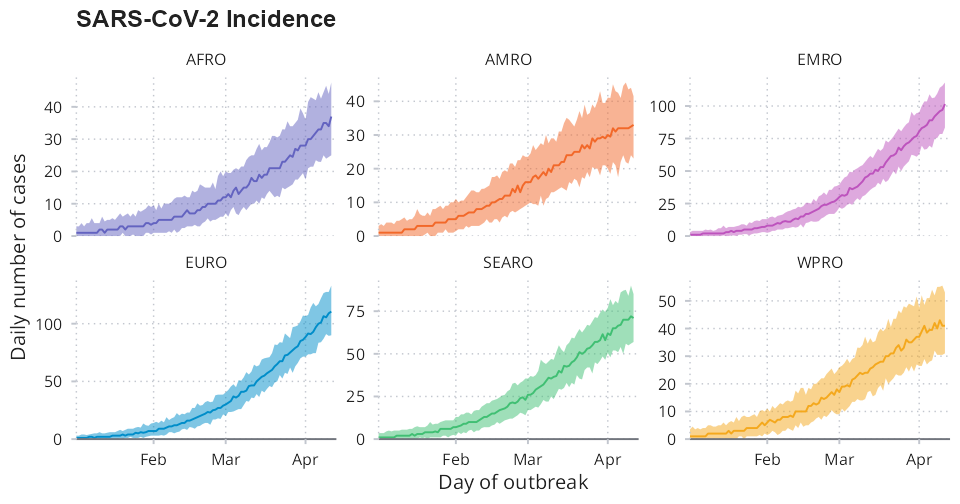
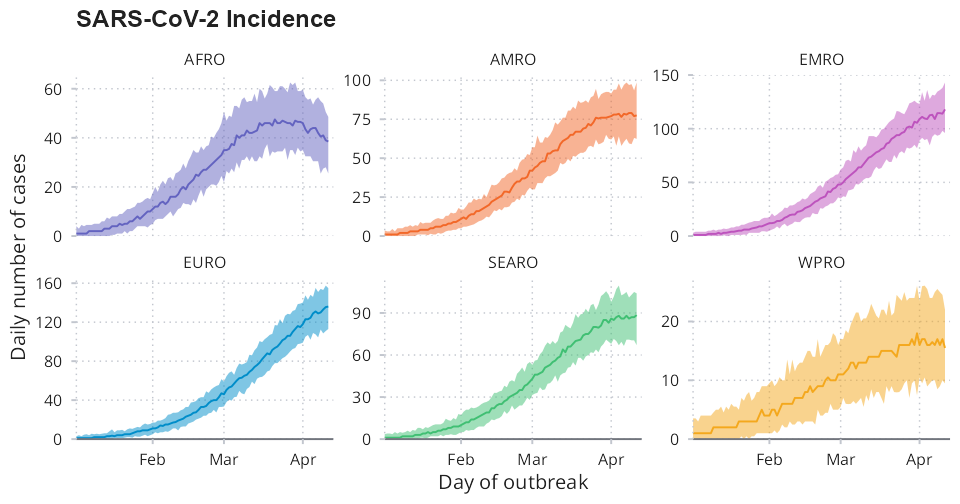
Tighten font specimen figure: crop y viewport, shorter height.
Reduce blank band under lorem lines (coord ylim, fig.height, margins).
Re-knit README figures.

Made-with: Cursor

diff --git a/README.md b/README.md
@@ -102,7 +102,10 @@ the `ttf` files. This font will be automatically used by the
 
 ![](man/figures/README-fonts-specimen-1.png)<!-- -->
 
-**Note:** This font cannot be rendered using the default devices,
-instead use `ragg::agg_*` as the device for non-vectorised images or
-`grDevices::cairo_pdf` for vectorised images. For convenience, this
-functionality is implemented within function `save_plot`.
+## Saving
+
+The recommended font cannot be rendered using default devices and
+require `ragg::agg_*` as the device for non-vectorised images or
+`grDevices::cairo_pdf` for vectorised images. This functionality is
+implemented within function `save_plot`, which acts as a wrapper for
+`ggplot2::ggsave` with sensible defaults.